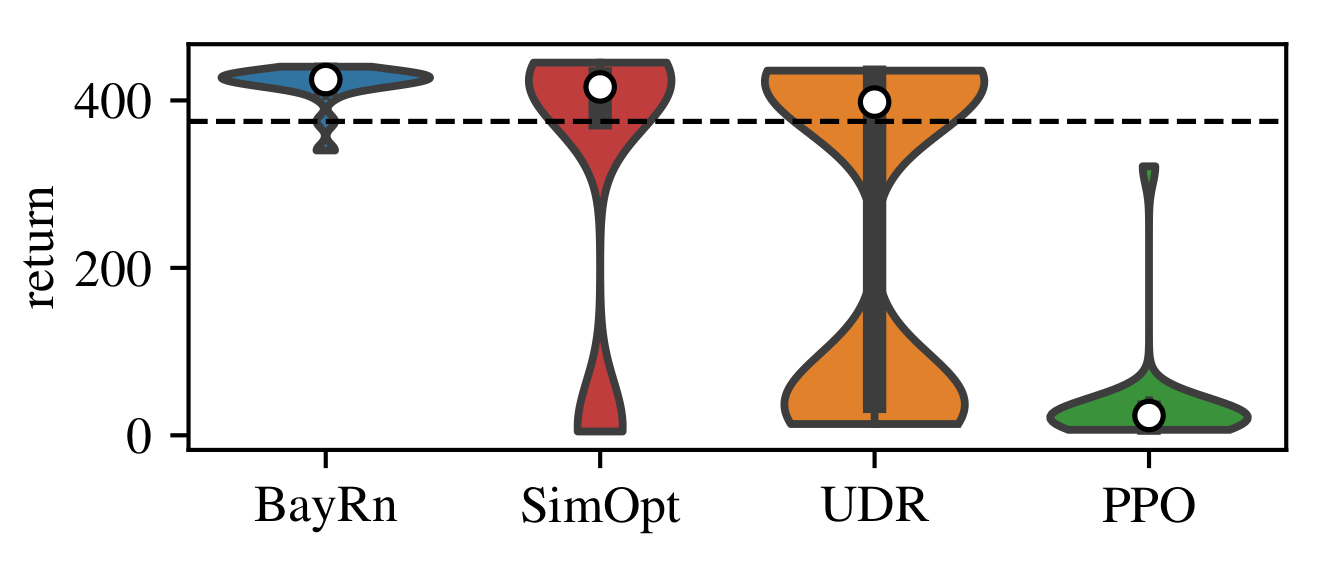
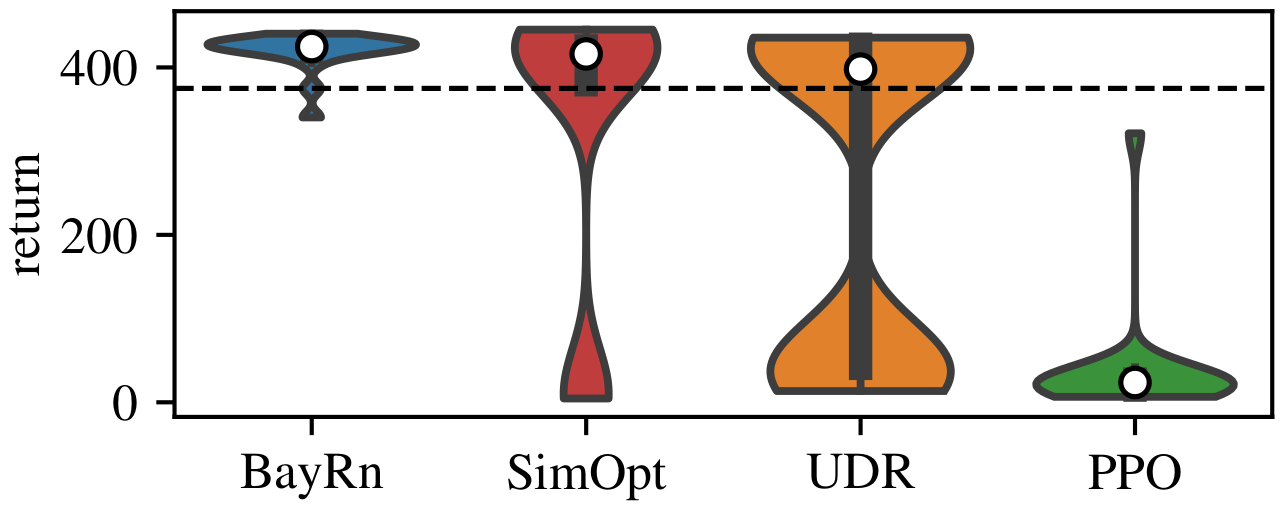
Added evaluation slide

Changed region(s): [[0.0, 0.0, 0.9969, 0.9706], [0.3738, 0.8529, 0.5296, 0.9706], [0.1869, 0.8529, 0.3115, 0.9706]]

diff --git a/index.html b/index.html
@@ -93,10 +93,10 @@
           <h4>Bayesian Domain Randomization (BayRn)</h4>
           <dl>
             <dt class="fragment" data-fragment-index="1">goal</dt>
-            <dd class="fragment" data-fragment-index="1">learn a policy in <span class="famurablue">sim</span>ulation such that transfers <span class="famurablue">to</span> the <span class="famurablue">real</span> robot</dd>
+            <dd class="fragment" data-fragment-index="1">learn a control policy in <span class="famurablue">sim</span>ulation such that it transfers <span class="famurablue">to</span> the <span class="famurablue">real</span> robot</dd>
             <dt class="fragment" data-fragment-index="2">idea</dt>
-            <dd class="fragment" data-fragment-index="2">model connection between return and domain distribution parameters using a <span class="famurablue">Gaussian process</span></dd>
-            <dd class="fragment" data-fragment-index="3">update the model based on <span class="famurablue">sparse real-world data</span></dd>
+            <dd class="fragment" data-fragment-index="2">model the connection between return and domain distribution parameters using a <span class="famurablue">Gaussian process</span></dd>
+            <dd class="fragment" data-fragment-index="3">update this model based on <span class="famurablue">sparse real-world data</span></dd>
           </dl>
         </section>
 
@@ -105,7 +105,7 @@
           <div style="text-align: left">
             <div class="fragment fade-in">
               <p>Time-discrete stochastic dynamical system</p>
-              \[ {\color{red} {\xi \sim \nu \left( \xi; \phi \right)}}, \ s_{t+1} \sim \mathcal{P} \left(s_{t+1} \big| s_t, a_t, {\color{red} \xi} \right), \ s_0 \sim\mu_0 \left( s_0, {\color{red} \xi} \right), \ a_t \sim \pi\left( s_t; \theta \right) \]
+              \[ {\color{red} {\xi \sim p \left( \xi; \phi \right)}}, \ s_{t+1} \sim \mathcal{P} \left(s_{t+1} \big| s_t, a_t, {\color{red} \xi} \right), \ s_0 \sim\mu_0 \left( s_0, {\color{red} \xi} \right), \ a_t \sim \pi\left( s_t; \theta \right) \]
             </div>
             <div class="fragment fade-in">
               <p>Expected return for one domain</p>
@@ -113,7 +113,7 @@
             </div>
             <div class="fragment fade-in">
               <p>Augmentation of the standard RL objective</p>
-              $$ \theta^\star = \arg\!\max_{\theta\in\Theta} \ {\color{red}{\mathbb{E}_{\xi \sim \nu(\xi;\phi)}}} \left[ \mathbb{E}_{s_0 \sim \mu_0({\color{red}\xi}; s_0)} \left[ J(\theta, {\color{red}\xi}, s_0) \right] \right] $$
+              $$ \theta^\star = \arg\!\max_{\theta\in\Theta} \ {\color{red}{\mathbb{E}_{\xi \sim p(\xi;\phi)}}} \left[ \mathbb{E}_{s_0 \sim \mu_0({\color{red}\xi}; s_0)} \left[ J(\theta, {\color{red}\xi}, s_0) \right] \right] $$
             </div>
           </div>
         </section>
@@ -129,7 +129,7 @@
             <div class="flex-container-col">with</div>
           </div>
           <div class="flex-container-row-end fragment fade-in" data-fragment-index="2" style="align-items: baseline">
-            <div class="flex-container-col margin-col">\[ {\color{red}{\theta^\star(\phi)}} = \arg\! \max_{\theta\in\Theta} \ \mathbb{E}_{\xi \sim \nu(\xi;{\color{red}\phi})} \! \left[ \mathbb{E}_{s_0 \sim \mu_0(s_0;\xi)} \left[ J(\theta, \xi, s_0) \right] \right] \]</div>
+            <div class="flex-container-col margin-col">\[ {\color{red}{\theta^\star(\phi)}} = \arg\! \max_{\theta\in\Theta} \ \mathbb{E}_{\xi \sim p(\xi;{\color{red}\phi})} \! \left[ \mathbb{E}_{s_0 \sim \mu_0(s_0;\xi)} \left[ J(\theta, \xi, s_0) \right] \right] \]</div>
             <div class="flex-container-col margin-col">lower level</div>
           </div>
         </section>
@@ -142,7 +142,7 @@
             <dd class="fragment fade-in" data-fragment-index="1">\[ {\color{red}{\phi^\star}} = \arg\!\max_{\phi\in\Phi} \ \mathbb{E}_{s_0 \sim \mu_0(s_0)} \big[ J^{\textrm{real}}\left( {\color{red} {\theta^\star}}, s_0\right) \big] \]</dd>
             <dt class="fragment fade-in" data-fragment-index="2">with</dt>
             <dt class="fragment fade-in" data-fragment-index="2" style="display: grid; align-content: center">lower level</dt>
-            <dd class="fragment fade-in" data-fragment-index="2">\[ {\color{red}{\theta^\star(\phi)}} = \arg\! \max_{\theta\in\Theta} \ \mathbb{E}_{\xi \sim \nu(\xi;{\color{red}\phi})} \! \left[ \mathbb{E}_{s_0 \sim \mu_0(s_0;\xi)} \left[ J(\theta, \xi, s_0) \right] \right] \]</dd>
+            <dd class="fragment fade-in" data-fragment-index="2">\[ {\color{red}{\theta^\star(\phi)}} = \arg\! \max_{\theta\in\Theta} \ \mathbb{E}_{\xi \sim p(\xi;{\color{red}\phi})} \! \left[ \mathbb{E}_{s_0 \sim \mu_0(s_0;\xi)} \left[ J(\theta, \xi, s_0) \right] \right] \]</dd>
           </dl>
         </section> -->
 
@@ -190,8 +190,22 @@
         </section>
 
         <section>
-          <img src="content/images/BayRn--returns_wam-bic_violinplot.png" width="300px" />
-          <img src="content/images/BayRn--returns_qq-su_violinplot.png" width="400px" />
+          <h4>Evaluation</h4>
+          <div style="display: flex; flex-direction: row; flex-wrap: nowrap; justify-content: center; margin-top: 40px">
+            <div class="captioned">
+              <img src="content/images/BayRn--returns_wam-bic_violinplot.png" height="190px" style="margin: 0px; left: 6px" />
+              <div class="outer-top-left-caption">Ball-in-a-cup</div>
+            </div>
+            <div class="captioned">
+              <img src="content/images/BayRn--returns_qq-su_violinplot.png" height="190px" style="margin: 0px; left: 6px" />
+              <div class="outer-top-right-caption">Swing-up and balance</div>
+            </div>
+          </div>
+          <p>
+            20 policies for each algorithm <br />
+            5 rollouts for each policy <br />
+            white circles mark the median
+          </p>
         </section>
 
         <section>

diff --git a/spota-graph.html b/spota-graph.html
@@ -45,31 +45,36 @@
     var width = 960, // slide width is 960
       height = 650 // slide height is 700
 
-    /// @fabio: Three ways to provide graph data:
-    //          1. In index.html, add `data-graph="filename.json"` to the slide including this file
-    //          2. Load a json file directly here:
-    //             d3.json("spota-graph.json").then(function(data) {
-    //               loadGraph(data);
-    //             });
-    //          3. Construct the data here and pass it to `loadGraph`:
-    //              var data = { nodes: [
-    //                              {id: "test1", opacity: 1, fx: 200, fy: 160, labels: [{text: "Test1"}]},
-    //                              {id: "test2", opacity: 1, fx: 400, fy: 200, labels: [{text: "Test2"}]}],
-    //                            links: [
-    //                              {source: "test1", target: "test2", type: "A"},
-    //                              {source: "test2", target: "test1", type: "B"}
-    //                            ]
-    //                          };
-    //              loadGraph(data);
+    // @NOTE:
+    // Three ways to provide graph data:
+    // 1. In index.html, add `data-graph="filename.json"` to the slide including this file
+    // 2. Load a json file directly here:
+    //   d3.json("spota-graph.json").then(function(data) {
+    //     loadGraph(data);
+    //   });
+    // 3. Construct the data here and pass it to `loadGraph`:
+    //     var data = { nodes: [
+    //                     {id: "test1", opacity: 1, fx: 200, fy: 160, labels: [{text: "Test1"}]},
+    //                     {id: "test2", opacity: 1, fx: 400, fy: 200, labels: [{text: "Test2"}]}],
+    //                   links: [
+    //                     {source: "test1", target: "test2", type: "A"},
+    //                     {source: "test2", target: "test1", type: "B"}
+    //                   ]
+    //                 };
+    //     loadGraph(data);
 
-    /// @fabio:
-    /// Slide transitions are defined here. Each transition is actually just a small lambda function. For both forward and backward steps through
-    ///   the presentation to work, you need to define a function both for each transition AND one to un-do each transition (but the backward steps ARE optional if you don't care).
-    /// EXTRA NOTE: if you move INTO this slide by going BACKWARDS through the presentation, the LAST `transitionForward()` will be invoked. This gives you the
-    ///   chance to build the final slide state and keep everything nice and continuous. This is why the last transition below enables ALL nodes instead of just the last one.
-    /// Here I have provided a small function which will toggle the visibility of a node, using its index in data.nodes[] above.
-    /// Arrow visibility is automatically set based on whether the nodes the arrow connects are visible.
-    ///   e.g. `showNode(2, true)` will make the "evaluate in reference domains" node visible along with any arrows that connect this node to another visible node.
+    // NOTE:
+    // Slide transitions are defined here. Each transition is actually just a small lambda function. For both forward and
+    // backward steps through the presentation to work, you need to define a function both for each transition AND one
+    // to un-do each transition (but the backward steps ARE optional if you don't care).
+    //
+    // EXTRA NOTE: if you move INTO this slide by going BACKWARDS through the presentation, the LAST `transitionForward()`
+    // will be invoked. This gives you the chance to build the final slide state and keep everything nice and continuous.
+    // This is why the last transition below enables ALL nodes instead of just the last one. Here I have provided a small
+    // function which will toggle the visibility of a node, using its index in data.nodes[] above. Arrow visibility is
+    // automatically set based on whether the nodes the arrow connects are visible. e.g. `showNode(2, true)` will make
+    // the "evaluate in reference domains" node visible along with any arrows that connect this node to another visible node.
+
     _transitions = [
       {
         transitionForward: () => {
